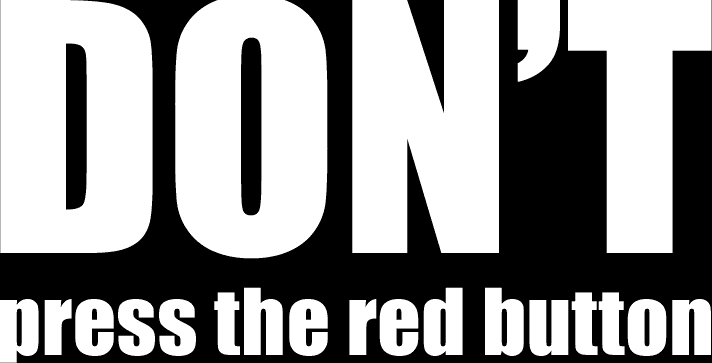
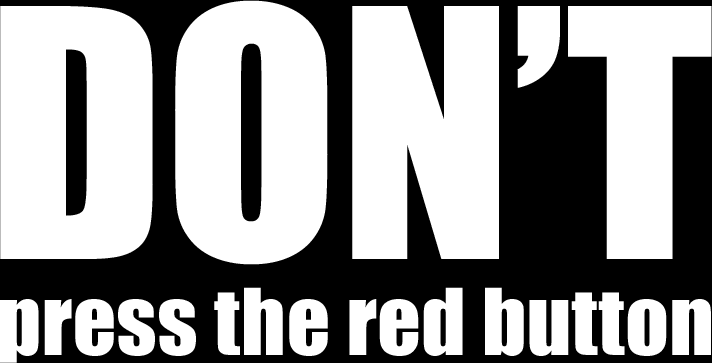
Puzzle named in #hash is automatically loaded
- "Don't" image corrected
- <nav> area now scrolls on iPhone

diff --git a/js/script.js b/js/script.js
@@ -1,7 +1,6 @@
-;;(function puzzleManager(window){
-  document.body.ontouchstart = function(event) {
-    event.preventDefault()
-  }
+var openPuzzle
+
+;(function puzzleManager(window){
   document.querySelector("nav").addEventListener(
     "click"
   , showGame
@@ -22,6 +21,10 @@
   var puzzle_js = document.querySelector(".puzzle_js")
   var $main = $("body>main")
 
+  $main.on("touchstart", function(event) {
+    event.preventDefault()
+  })
+
   function showGame(event) {
     var link = event.target // becomes <a> element or undefined
 
@@ -30,28 +33,7 @@
      *   "http://example.com/folder/index.html#puzzleName"
      * @return {string or false}
      */
-    var hash = (function getHash() {
-      // Uses link from closure, and modifies it
-      var notLink = true
-      var index
-
-      // Find <a> element in hierarchy
-      while (link // not undefined
-          && link.tagName // not body
-          && (notLink = link.tagName.toLowerCase() !== "a") // not <a>
-        ) {
-        link = link.parentNode // may now be <a>
-      }
-
-      if (notLink) {
-        hash = false
-      } else {
-        index = link.href.indexOf("#") + 1
-        hash = link.href.substring(index)
-      }
-
-      return hash
-    })()
+    var hash = getHash(link)
 
     if (!hash) {
       // The click was on a nav sub-element above the <a> element
@@ -134,6 +116,51 @@
       puzzleObject.initialize()
     }
   }
+
+  function getHash(link) {
+    // Uses link from closure, and modifies it
+    var notLink = true
+    var index
+
+    // Find <a> element in hierarchy
+    while (link // not undefined
+        && link.tagName // not body
+        && (notLink = link.tagName.toLowerCase() !== "a") // not <a>
+      ) {
+      link = link.parentNode // may now be <a>
+    }
+
+    if (notLink) {
+      hash = false
+    } else {
+      index = link.href.indexOf("#") + 1
+      hash = link.href.substring(index)
+    }
+
+    return hash
+  }
+
+  function openPuzzle(gameName) {
+    var links = [].slice.call(document.querySelectorAll("nav a"))
+    var hash
+      , success
+
+    while (gameName.charAt(0) === "#") {
+      gameName = gameName.substring(1)
+    }
+
+    links.every(function (link) {
+      hash = getHash(link)
+      if (hash === gameName) {
+        success = showGame({ target: link })
+        return false
+      }
+
+      return true
+    })
+  }
+
+  openPuzzle(window.location.hash)
 })(window)
 
 /**

diff --git a/puzzles/spot/puzzle.js b/puzzles/spot/puzzle.js
@@ -10,7 +10,6 @@
   }
 
   Puzzle.prototype.initialize = function initialize() {
-    console.log("Puzzle '" + this.name + "' initialized")
     var body = document.body
     var article = document.querySelector("article")
     var h1 = document.querySelector("h1")
@@ -63,6 +62,18 @@
 
     container.onmousedown = container.ontouchstart = startDrag
 
+    ;(function resizeHeader(){
+      document.addEventListener("windowResized", windowResized, false)
+
+      function windowResized(event) {
+        var rect = h1.getBoundingClientRect()
+        var width = rect.width
+        h1.style.fontSize = (width * 0.05) + "px"
+      }
+
+      windowResized()
+    })()
+
     ;(function createDiscs(){    
       for (var ii=0; ii<5; ii+=1) {
         addDisc(ii)
@@ -91,7 +102,7 @@
     })()
 
     function startDrag(event) {
-      event.preventDefault()
+      // event.preventDefault()
       disc = event.target
       id = disc.id
 
@@ -249,9 +260,10 @@
         var d2 = dX * dX + dY * dY
         var radians = Math.atan2(dX, -dY) // 0 at 12 o'clock > ± π
 
-        if (Math.abs(d2 - outer2) < 10) { // typically < 0.01
+        // Difference set to 100 for Internet Explorer 11
+        if (Math.abs(d2 - outer2) < 100) { // typically < 0.01
           defineOuterPositions()
-        } else if (Math.abs(d2 - inner2) < 10){
+        } else if (Math.abs(d2 - inner2) < 100){
           defineInnerPositions()
         } else {
           // This should never happen

diff --git a/index.html b/index.html
@@ -15,7 +15,7 @@
   <link rel="apple-touch-startup-image" href="img/startup.png">
   <meta name="apple-mobile-web-app-capable" content="yes">
   <meta name="apple-mobile-web-app-status-bar-style" content="black-translucent">
-  <meta name = "viewport" content = "width = device-width, initial-scale = 0.8, user-scalable = true">
+  <meta name = "viewport" content = "width = device-width, initial-scale = 1.0, user-scalable = false">
 </head>
 <body>
 <nav>
@@ -32,11 +32,6 @@
     </a>
   </li>
   <li>
-    <a href="#spot">
-      <img src="puzzles/spot/icon.png">
-    </a>
-  </li>
-  <li>
     <a href="#maze">
       <img src="puzzles/maze/icon.png">
     </a>
@@ -44,6 +39,11 @@
   <li>
     <a href="#fractal">
       <img src="puzzles/fractal/icon.png">
+    </a>
+  </li>
+  <li>
+    <a href="#spot">
+      <img src="puzzles/spot/icon.png">
     </a>
   </li>
   </ul>

diff --git a/puzzles/jigsaw/puzzle.js b/puzzles/jigsaw/puzzle.js
@@ -559,7 +559,7 @@
     })() 
 
[1 lines of base64/hex data omitted]
-    source.src = "puzzles/jigsaw/img/puzzle.png"
+    source.src = "puzzles/jigsaw/img/castle6x4@80.jpg"
   }
 
   Puzzle.prototype.kill = function kill() {

diff --git a/puzzles/dials/puzzle.js b/puzzles/dials/puzzle.js
@@ -44,10 +44,6 @@ function puzzleLoaded(reloaded) {}
     paths.forEach(function (path) {
       path.parentNode.removeChild(path)
     })
-    
-    body.ontouchstart = function (event) {
-      event.preventDefault()
-    }
 
     ;(function createDials(){
       var radius = width

diff --git a/puzzles/spot/puzzle.css b/puzzles/spot/puzzle.css
@@ -9,6 +9,7 @@ h1 {
   margin:0;
   pointer-events: none;
   z-index:1;
+  font-size: 0px;
 }
 svg.container {
   height: 100%;     

diff --git a/puzzles/fractal/puzzle.css b/puzzles/fractal/puzzle.css
@@ -10,4 +10,5 @@ h1 {
   width: 100%;
   color: #422;
   text-align: center;
+  font-size: 0px;
 }
